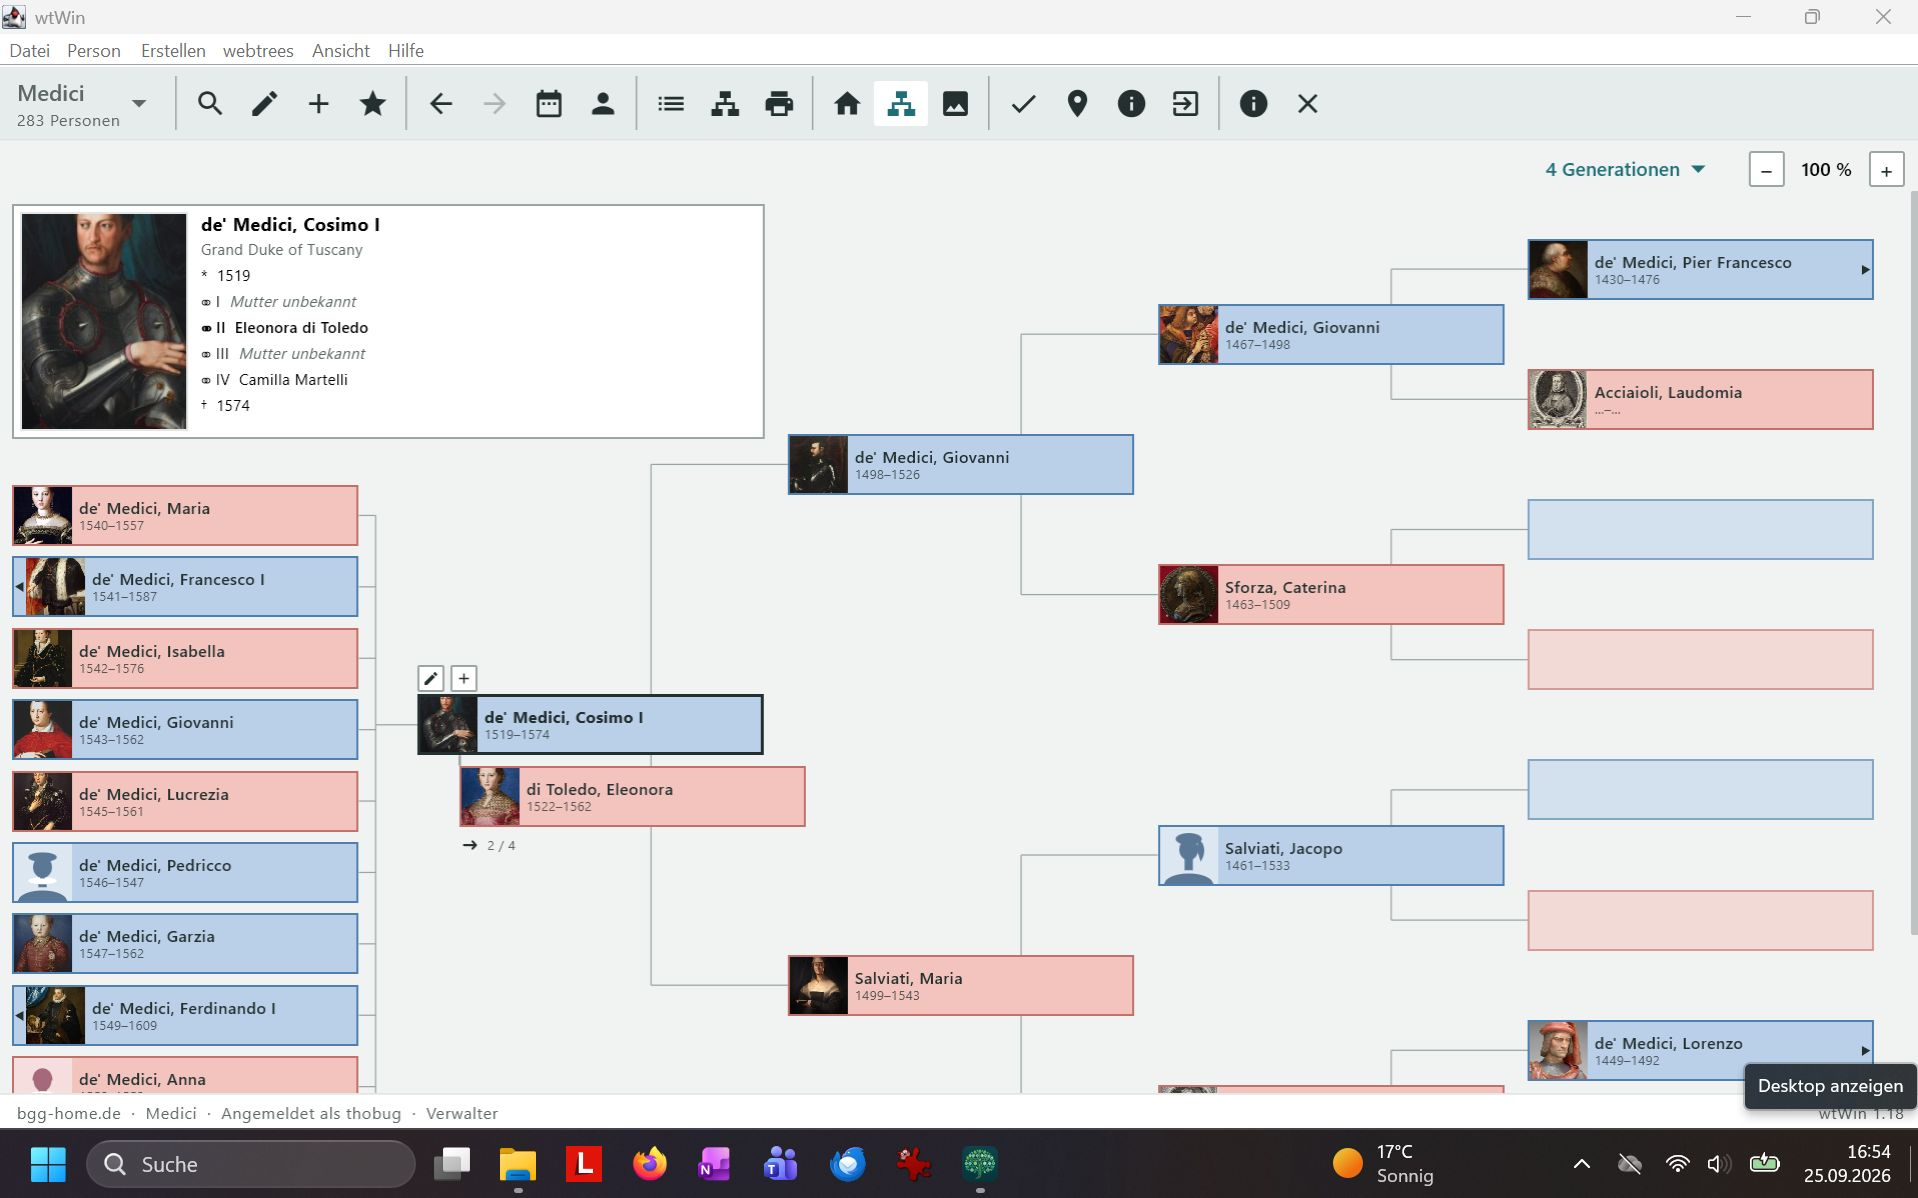
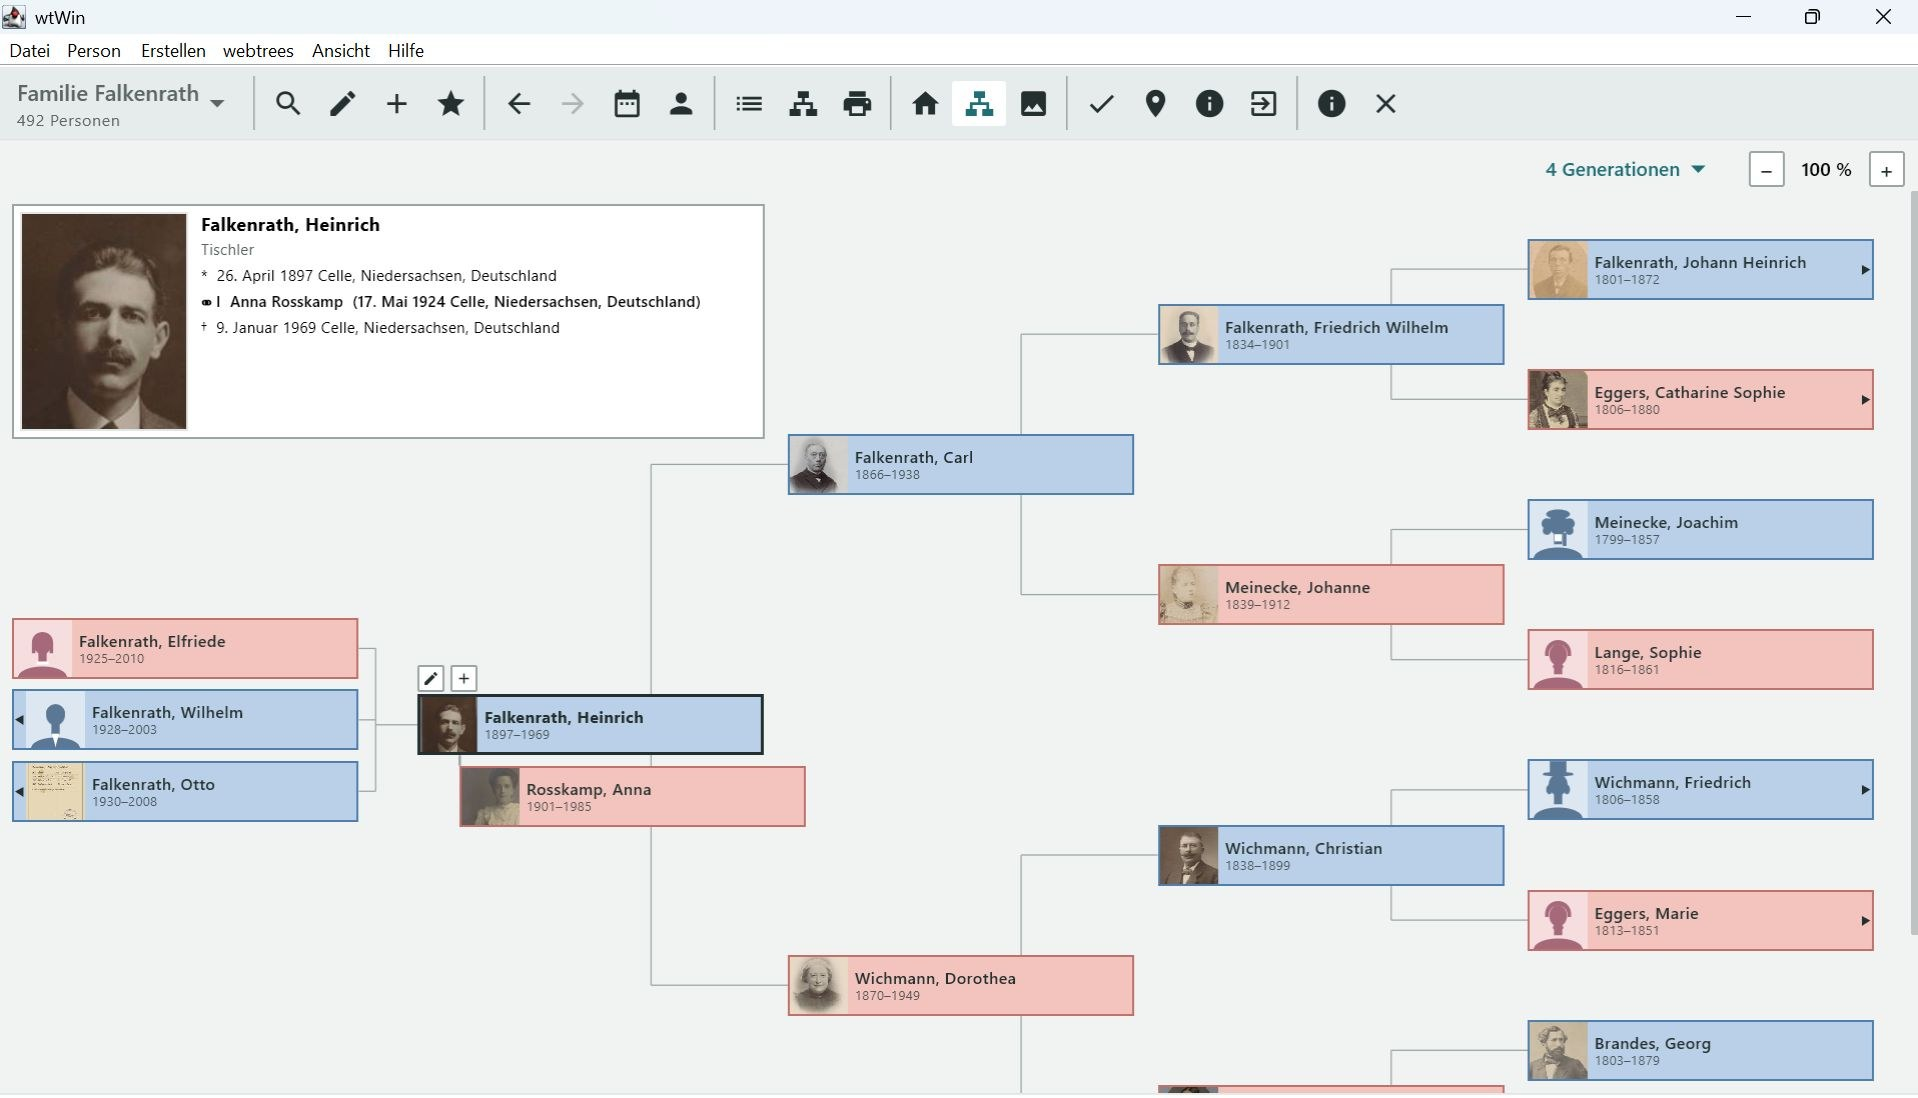
Windows-Bilder jetzt aus dem Demo-Baum Falkenrath (Navigator Heinrich Falkenrath, Personenblatt Frieda Behnke); Bildnachweis vereinfacht

diff --git a/README.md b/README.md
@@ -16,11 +16,11 @@
 <p align="center"><b>Neu in 1.26: der Stammbaum auf dem PC – ohne Server.</b> wtWin (unter Linux wtTux) installieren, GEDCOM-Datei aus dem bisherigen Programm wählen – fertig. Kein Server, kein Passwort, kein Internet; webtrees läuft unsichtbar im Hintergrund.</p>
 
 <p align="center">
-  <img src="docs/screenshots/windows-navigator.jpg" alt="wtWin unter Windows: Navigator mit Proband, Kindern und vier Generationen Vorfahren" width="100%">
+  <img src="docs/screenshots/windows-navigator.jpg" alt="wtWin unter Windows: Navigator mit Heinrich Falkenrath, Kindern und vier Generationen Vorfahren" width="100%">
   <br><b>wtWin unter Windows</b> – derselbe Stammbaum wie in wtAnd, aufgebaut wie ein klassisches Genealogie-Programm.
 </p>
 
-| <img src="docs/screenshots/windows-personenblatt.jpg" alt="wtWin: Personenblatt von Cosimo I de' Medici" width="100%"> | <img src="docs/screenshots/desktop-navigator.png" alt="wtTux unter Linux: Navigator mit Frieda Behnke und vier Generationen Vorfahren" width="100%"> |
+| <img src="docs/screenshots/windows-personenblatt.jpg" alt="wtWin: Personenblatt von Frieda Behnke" width="100%"> | <img src="docs/screenshots/desktop-navigator.png" alt="wtTux unter Linux: Navigator mit Frieda Behnke und vier Generationen Vorfahren" width="100%"> |
 | :-: | :-: |
 | **Personenblatt** – Ereignisse als Tabelle, die Familie daneben, Drucken und PDF | **wtTux unter Linux** – dasselbe Programm |
 
@@ -44,7 +44,7 @@
   <br><b>Plausibilitätsprüfung</b> (ab 1.22, erweitert in 1.23) – 61 Regeln prüfen den ganzen Stammbaum: Tod vor Geburt, Mutter zu jung, Pate schon gestorben, mögliche Dubletten, Ortsvarianten, eigener Vorfahr … Voreinstellungen von streng bis großzügig, Grenzen einstellbar; geprüfte Treffer abhaken, das Ereignis direkt aus dem Treffer bearbeiten, Drucken und PDF.
 </p>
 
-<p align="center"><sub>Tafeln, Prüfung und wtTux-Navigator: frei erfundener Demo-Stammbaum <a href="demo-tree/">Familie Falkenrath</a> (CC0), Fotos unbekannter Personen aus dem Rijksmuseum Amsterdam (CC0). wtWin-Navigator und Personenblatt: historischer Stammbaum der Medici; Porträt Caterina Sforza: <a href="https://commons.wikimedia.org/wiki/File:Italia,_caterina_riario_di_forl%C3%AC,_riproduzione_della_medaglia_del_1488_ca..JPG">Sailko</a>, <a href="https://creativecommons.org/licenses/by-sa/3.0/">CC BY-SA 3.0</a>, alle anderen gemeinfrei (Wikimedia Commons).</sub></p>
+<p align="center"><sub>Alle Bilder: frei erfundener Demo-Stammbaum <a href="demo-tree/">Familie Falkenrath</a> (CC0), Fotos unbekannter Personen aus dem Rijksmuseum Amsterdam (CC0).</sub></p>
 
 **Android:** Die APK ist signiert. Außerhalb des Play Store muss Android einmalig erlauben, dass der Browser Apps installiert.  
 **Linux:** Das Paket mit `sudo apt install ./wttux_…_amd64.deb` installieren.  

diff --git a/README.en.md b/README.en.md
@@ -16,11 +16,11 @@
 <p align="center"><b>New in 1.26: the family tree on your PC – no server needed.</b> Install wtWin (wtTux on Linux), choose the GEDCOM file from your previous program – done. No server, no password, no internet; webtrees runs invisibly in the background.</p>
 
 <p align="center">
-  <img src="docs/screenshots/windows-navigator.jpg" alt="wtWin on Windows: navigator with central person, children and four generations of ancestors" width="100%">
+  <img src="docs/screenshots/windows-navigator.jpg" alt="wtWin on Windows: navigator with Heinrich Falkenrath, children and four generations of ancestors" width="100%">
   <br><b>wtWin on Windows</b> – the same family tree as in wtAnd, laid out like a classic genealogy program.
 </p>
 
-| <img src="docs/screenshots/windows-personenblatt.jpg" alt="wtWin: person sheet of Cosimo I de' Medici" width="100%"> | <img src="docs/screenshots/desktop-navigator.png" alt="wtTux on Linux: navigator with Frieda Behnke and four generations of ancestors" width="100%"> |
+| <img src="docs/screenshots/windows-personenblatt.jpg" alt="wtWin: person sheet of Frieda Behnke" width="100%"> | <img src="docs/screenshots/desktop-navigator.png" alt="wtTux on Linux: navigator with Frieda Behnke and four generations of ancestors" width="100%"> |
 | :-: | :-: |
 | **Person sheet** – events as a table, the family beside them, print and PDF | **wtTux on Linux** – the same program |
 
@@ -44,7 +44,7 @@
   <br><b>Plausibility check</b> (from 1.22, extended in 1.23) – 61 rules check the whole tree: death before birth, mother too young, godparent already dead, possible duplicates, place variants, own ancestor … presets from strict to lenient, adjustable limits; tick off checked findings, edit the event straight from the finding, print and PDF.
 </p>
 
-<p align="center"><sub>Charts, plausibility check and wtTux navigator: fictitious demo tree <a href="demo-tree/">Familie Falkenrath</a> (CC0), photos of unknown people from the Rijksmuseum Amsterdam (CC0). wtWin navigator and person sheet: historical tree of the Medici; portrait of Caterina Sforza: <a href="https://commons.wikimedia.org/wiki/File:Italia,_caterina_riario_di_forl%C3%AC,_riproduzione_della_medaglia_del_1488_ca..JPG">Sailko</a>, <a href="https://creativecommons.org/licenses/by-sa/3.0/">CC BY-SA 3.0</a>, all others public domain (Wikimedia Commons).</sub></p>
+<p align="center"><sub>All pictures: fictitious demo tree <a href="demo-tree/">Familie Falkenrath</a> (CC0), photos of unknown people from the Rijksmuseum Amsterdam (CC0).</sub></p>
 
 **Android:** the APK is signed. To install outside the Play Store, Android asks once to allow your browser to install apps.  
 **Linux:** install the package with `sudo apt install ./wttux_…_amd64.deb`.  
